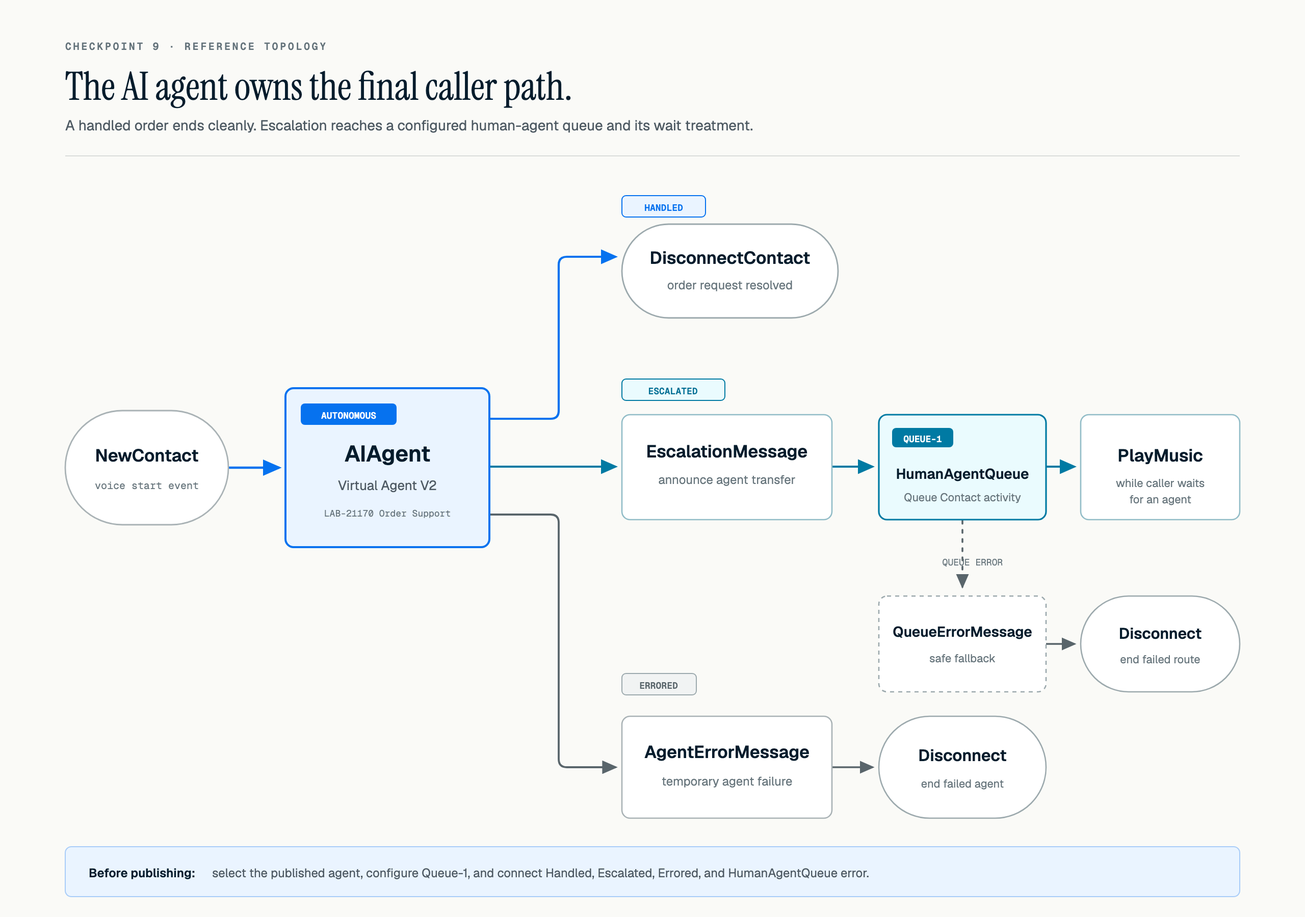
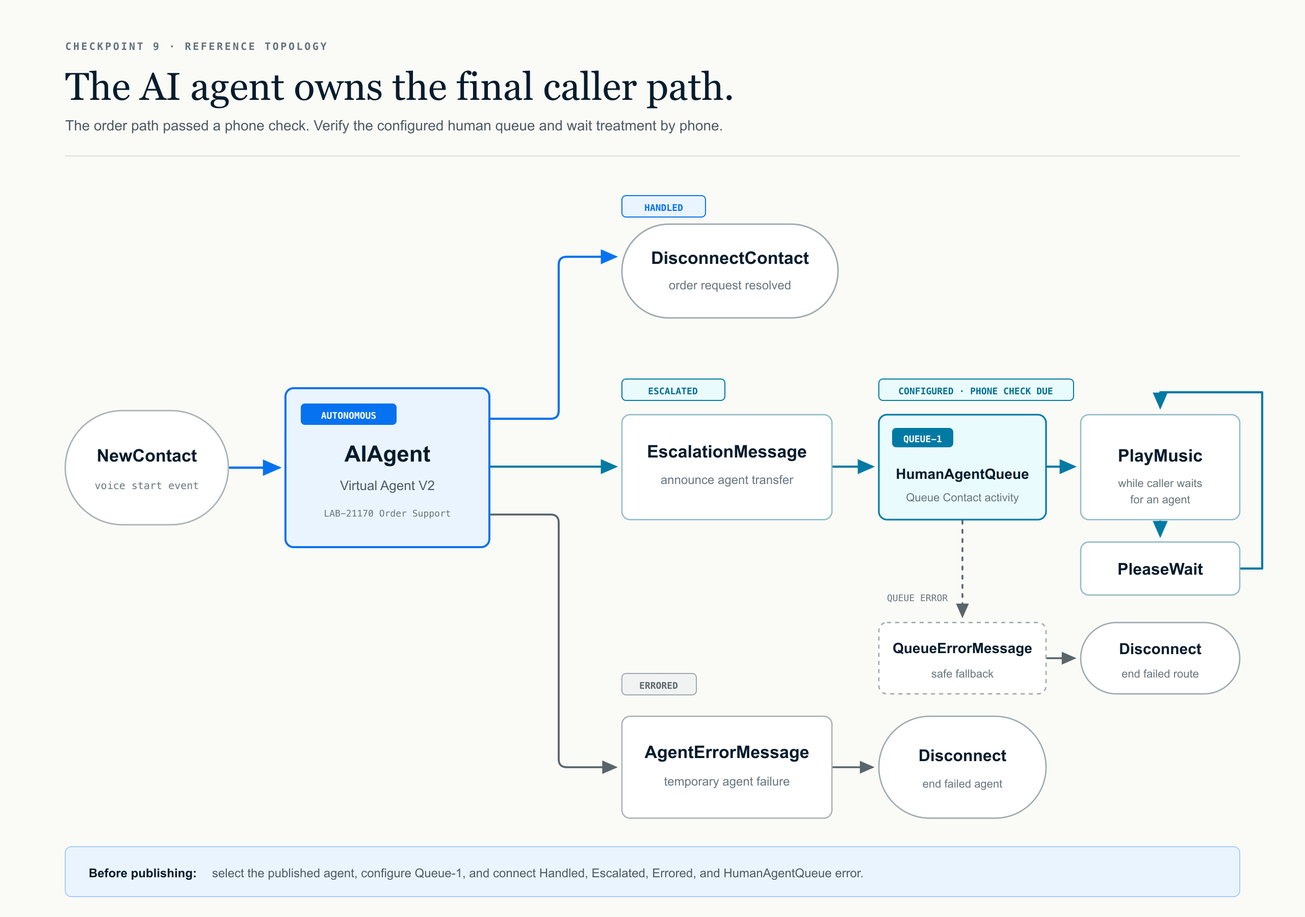
Polish attendee guide and add final QA evidence

diff --git a/diagram-sources/LAB-21170-final-agent-flow.html b/diagram-sources/LAB-21170-final-agent-flow.html
@@ -15,7 +15,7 @@
 <body>
   <svg viewBox="0 0 1280 900" role="img" aria-labelledby="final-flow-title final-flow-desc">
     <title id="final-flow-title">Checkpoint 9 final AI agent caller path</title>
-    <desc id="final-flow-desc">NewContact connects directly to AIAgent. Handled calls disconnect. Escalated calls hear EscalationMessage, enter HumanAgentQueue on Queue-1, and hear PlayMusic while waiting. HumanAgentQueue errors play QueueErrorMessage before disconnecting. AIAgent errors play AgentErrorMessage before disconnecting.</desc>
+    <desc id="final-flow-desc">NewContact connects directly to AIAgent. Handled calls disconnect. On the configured escalation path, the caller hears EscalationMessage, enters HumanAgentQueue on Queue-1, then hears PlayMusic followed by PleaseWait in a loop while waiting. This path still needs a phone check. HumanAgentQueue errors play QueueErrorMessage before disconnecting. AIAgent errors play AgentErrorMessage before disconnecting.</desc>
     <defs>
       <marker id="blue-arrow" markerWidth="8" markerHeight="7" refX="7" refY="3.5" orient="auto"><path d="M0 0 8 3.5 0 7Z" fill="#0672ef"/></marker>
       <marker id="cyan-arrow" markerWidth="8" markerHeight="7" refX="7" refY="3.5" orient="auto"><path d="M0 0 8 3.5 0 7Z" fill="#007aa3"/></marker>
@@ -25,7 +25,7 @@
     <rect width="1280" height="900" fill="#fafaf7"/>
     <text x="64" y="49" fill="#63727a" font-family="'Geist Mono', Menlo, monospace" font-size="10" font-weight="600" letter-spacing="1.8">CHECKPOINT 9 · REFERENCE TOPOLOGY</text>
     <text x="64" y="98" fill="#051c2c" font-family="'Instrument Serif', Georgia, serif" font-size="38">The AI agent owns the final caller path.</text>
-    <text x="64" y="128" fill="#4e5a63" font-size="14">A handled order ends cleanly. Escalation reaches a configured human-agent queue and its wait treatment.</text>
+    <text x="64" y="128" fill="#4e5a63" font-size="14">The order path passed a phone check. Verify the configured human queue and wait treatment by phone.</text>
     <line x1="64" y1="153" x2="1216" y2="153" stroke="#d9dcda"/>
 
     <!-- Connectors render under nodes. Each outcome is a separate Flow Designer output. -->
@@ -35,8 +35,10 @@
     <path d="M480 505H540Q548 505 548 513V745Q548 753 556 753H604" fill="none" stroke="#59656b" stroke-width="1.9" marker-end="url(#ink-arrow)"/>
     <path d="M816 458H856" fill="none" stroke="#007aa3" stroke-width="2.1" marker-end="url(#cyan-arrow)"/>
     <path d="M1026 458H1054" fill="none" stroke="#007aa3" stroke-width="2.1" marker-end="url(#cyan-arrow)"/>
-    <path d="M944 511V576" fill="none" stroke="#59656b" stroke-width="1.8" stroke-dasharray="3 6" stroke-linecap="round" marker-end="url(#ink-arrow)"/>
-    <path d="M1026 632H1054" fill="none" stroke="#59656b" stroke-width="1.8" marker-end="url(#ink-arrow)"/>
+    <path d="M1138 511V526" fill="none" stroke="#007aa3" stroke-width="2.1" marker-end="url(#cyan-arrow)"/>
+    <path d="M1216 558H1238V385H1138V400" fill="none" stroke="#007aa3" stroke-width="2.1" stroke-linejoin="round" marker-end="url(#cyan-arrow)"/>
+    <path d="M944 511V605" fill="none" stroke="#59656b" stroke-width="1.8" stroke-dasharray="3 6" stroke-linecap="round" marker-end="url(#ink-arrow)"/>
+    <path d="M1026 646H1054" fill="none" stroke="#59656b" stroke-width="1.8" marker-end="url(#ink-arrow)"/>
     <path d="M816 753H856" fill="none" stroke="#59656b" stroke-width="1.8" marker-end="url(#ink-arrow)"/>
 
     <!-- Entry and AI agent. -->
@@ -58,9 +60,11 @@
     <text x="716" y="259" fill="#051c2c" font-size="17" font-weight="600" text-anchor="middle">DisconnectContact</text>
     <text x="716" y="284" fill="#68767d" font-size="12" text-anchor="middle">order request resolved</text>
 
-    <!-- Escalated transfers to the queue, where wait treatment runs. -->
+    <!-- Escalated transfers to the configured queue, where wait treatment loops. -->
     <rect x="610" y="372" width="101" height="21" rx="4" fill="#eafbfe" stroke="#007aa3"/>
     <text x="660" y="387" fill="#006f94" font-family="'Geist Mono', Menlo, monospace" font-size="9" font-weight="600" text-anchor="middle">ESCALATED</text>
+    <rect x="862" y="372" width="191" height="21" rx="4" fill="#eafbfe" stroke="#007aa3"/>
+    <text x="957" y="387" fill="#006f94" font-family="'Geist Mono', Menlo, monospace" font-size="9" font-weight="600" text-anchor="middle">CONFIGURED · PHONE CHECK DUE</text>
     <rect x="610" y="407" width="206" height="103" rx="8" fill="#fff" stroke="#91bcc7" stroke-width="1.3"/>
     <text x="713" y="449" fill="#051c2c" font-size="17" font-weight="600" text-anchor="middle">EscalationMessage</text>
     <text x="713" y="475" fill="#68767d" font-size="12" text-anchor="middle">announce agent transfer</text>
@@ -76,14 +80,17 @@
     <text x="1138" y="478" fill="#68767d" font-size="11" text-anchor="middle">while caller waits</text>
     <text x="1138" y="494" fill="#68767d" font-size="11" text-anchor="middle">for an agent</text>
 
+    <rect x="1060" y="532" width="156" height="52" rx="8" fill="#fff" stroke="#91bcc7" stroke-width="1.3"/>
+    <text x="1138" y="564" fill="#051c2c" font-size="16" font-weight="600" text-anchor="middle">PleaseWait</text>
+
     <!-- Queue Contact failure uses a safe message and disconnect. -->
-    <text x="954" y="555" fill="#68767d" font-family="'Geist Mono', Menlo, monospace" font-size="9" text-anchor="middle">QUEUE ERROR</text>
-    <rect x="862" y="585" width="164" height="94" rx="8" fill="#fff" stroke="#9ca9ad" stroke-width="1.3" stroke-dasharray="4 4"/>
-    <text x="944" y="625" fill="#051c2c" font-size="14" font-weight="600" text-anchor="middle">QueueErrorMessage</text>
-    <text x="944" y="650" fill="#68767d" font-size="11" text-anchor="middle">safe fallback</text>
-    <rect x="1060" y="585" width="156" height="94" rx="47" fill="#fff" stroke="#9ca9ad" stroke-width="1.3"/>
-    <text x="1138" y="627" fill="#051c2c" font-size="15" font-weight="600" text-anchor="middle">Disconnect</text>
-    <text x="1138" y="651" fill="#68767d" font-size="11" text-anchor="middle">end failed route</text>
+    <text x="870" y="590" fill="#68767d" font-family="'Geist Mono', Menlo, monospace" font-size="9">QUEUE ERROR</text>
+    <rect x="862" y="611" width="164" height="70" rx="8" fill="#fff" stroke="#9ca9ad" stroke-width="1.3" stroke-dasharray="4 4"/>
+    <text x="944" y="641" fill="#051c2c" font-size="14" font-weight="600" text-anchor="middle">QueueErrorMessage</text>
+    <text x="944" y="665" fill="#68767d" font-size="11" text-anchor="middle">safe fallback</text>
+    <rect x="1060" y="611" width="156" height="70" rx="35" fill="#fff" stroke="#9ca9ad" stroke-width="1.3"/>
+    <text x="1138" y="642" fill="#051c2c" font-size="15" font-weight="600" text-anchor="middle">Disconnect</text>
+    <text x="1138" y="665" fill="#68767d" font-size="11" text-anchor="middle">end failed route</text>
 
     <!-- Errored uses its own message and disconnect. -->
     <rect x="610" y="661" width="73" height="21" rx="4" fill="#f1f3f3" stroke="#9ca9ad"/>

diff --git a/diagram-sources/LAB-21170-solution-evolution.html b/diagram-sources/LAB-21170-solution-evolution.html
@@ -5,11 +5,11 @@
   <meta name="viewport" content="width=device-width, initial-scale=1">
   <title>LAB-21170 solution evolution</title>
   <style>
-    html, body { width: 1280px; height: 835px; margin: 0; overflow: hidden; background: #fafaf7; }
-    img { display: block; width: 1280px; height: 835px; }
+    html, body { width: 1280px; height: 920px; margin: 0; overflow: hidden; background: #fafaf7; }
+    img { display: block; width: 1280px; height: 920px; }
   </style>
 </head>
 <body>
-  <img src="LAB-21170-solution-evolution.svg" width="1280" height="835" alt="Two lab paths: a practice REST flow to queue treatment, and a final AI agent flow with handled or configured escalation outcomes.">
+  <img src="LAB-21170-solution-evolution.svg" width="1280" height="920" alt="Practice: menu option 1 uses Order Desk REST before the queue, while option 2 reaches the queue directly. Final: the AI agent looks up orders and ends handled calls; accepted general-support handoffs enter the configured human queue and wait treatment.">
 </body>
 </html>

diff --git a/docs/stylesheets/extra.css b/docs/stylesheets/extra.css
@@ -19,12 +19,12 @@
 }
 
 [data-md-color-scheme="default"] {
-    --md-typeset-a-color: #3a7fff;
+    --md-typeset-a-color: #2866d0;
     --md-accent-fg-color: #00bdeb;
 }
 
 [data-md-color-scheme="slate"] {
-    --md-typeset-a-color: #3a7fff;
+    --md-typeset-a-color: #6ea3ff;
     --md-accent-fg-color: #00bdeb;
 }
 copy::after, .copy::after {

diff --git a/docs/lab2_flow_designer.md b/docs/lab2_flow_designer.md
@@ -186,6 +186,11 @@ Your starter path should now look like this:
 - **General support:** `SupportMenu → 2 → Queue Contact (Queue-1) → wait treatment` until an agent answers or the call ends
 - **Invalid or missing input:** `SupportMenu → MenuFallbackMessage → DisconnectContact`
 
+<figure markdown>
+  ![Corrected ServiceDesk menu with digit 2 connected to Queue Contact and validation showing zero errors](assets/lab-guide/live/cp3-general-support-queue-validated.jpg)
+  <figcaption markdown="span">Check the digit `2` link into Queue Contact and **0 errors**. This capture includes later order-lookup nodes; your starter canvas has fewer activities.</figcaption>
+</figure>
+
 You will add the final **Virtual Agent V2** activity in Checkpoint 9. The published menu-based version remains available in version history as a recovery and learning reference; remove its starter IVR nodes from the final AI draft after reusing the queue treatment, then confirm zero-error Validation before publishing.
 
 #### Publish the starter IVR
@@ -292,11 +297,21 @@ The validated main-flow path is `Queue Contact → Queue Treatment Subflow → C
   <figcaption markdown="span">The example <code>LAB21170_SimpleQueue_ARUN</code> was published as version 2 with Test and Latest labels after Validation showed 0 errors.</figcaption>
 </figure>
 
-The version 2 screenshot shows the queue-treatment and callback design published. It does not show a call through that version. Menu **Undefined Error**, Callback **Failure**, and confirmation Play Message **Undefined Error** were still open despite 0 validation errors. Connect them before routing callers. The Part A Debug and Analyze screenshots show version 1.
+The version 2 screenshot shows the queue-treatment and callback design before its error paths were finished. The example flow was later repaired and published as version 3. Its Menu **Undefined Error**, Callback **Failure**, and confirmation Play Message **Undefined Error** now share a spoken fallback and **Disconnect Contact**. Validation reports **0 errors**. Neither version 2 nor version 3 has a completed phone test; the Part A Debug and Analyze screenshots show version 1.
+
+<figure markdown>
+  ![Practice flow with Menu Undefined Error, Callback Failure, and confirmation-message Undefined Error connected to a spoken fallback and Disconnect Contact; Validation shows zero errors](assets/lab-guide/live/cp2-practice-error-fallback-validated.jpg)
+  <figcaption markdown="span">Connect all three open error outputs to a short fallback message, then disconnect. The repaired draft passed Validation with **0 errors**.</figcaption>
+</figure>
+
+<figure markdown>
+  ![Practice flow version history with repaired version 3 published as Latest and earlier version 2 retained as Test](assets/lab-guide/live/cp2-practice-v3-latest.jpg)
+  <figcaption markdown="span">The repaired practice flow is published as version 3 **Latest**. This proves publication; the caller test below still needs to be run.</figcaption>
+</figure>
 
 #### Test the queue treatment
 
-1. Before a call, connect the Menu **Undefined Error**, Callback **Failure**, and confirmation Play Message **Undefined Error** outputs to a short fallback message and a **Disconnect Contact**. Connect the fallback message's own error output directly to **Disconnect Contact**. Validate and publish this version; the version 2 screenshot still shows those ports open.
+1. Before a call, connect the Menu **Undefined Error**, Callback **Failure**, and confirmation Play Message **Undefined Error** outputs to a short fallback message and a **Disconnect Contact**. Connect the fallback message's own error output directly to **Disconnect Contact**. Validate and publish; compare with the repaired version 3 screenshots above.
 2. Check that your assigned entry point routes to the Part A practice flow on **Latest**. If it now routes to `ServiceDesk` or another participant's flow, coordinate with the facilitator before changing that shared route. Call the practice flow's number and stay on the line long enough to hear music and the waiting message, then press `2` at `CallbackOrWait`. Confirm that the wait treatment plays again.
 3. On a second call, press `1` only if the facilitator has enabled Courtesy Callback for the lab queue. Listen for the confirmation and confirm the original call disconnects. If an agent accepts the queued callback task, confirm that a return call arrives at the caller number.
 4. In **Debug**, compare the completed main-flow interaction paths. In **Analyze**, check the subflow invocation and the chosen menu branch. [Flow Analytics](https://help.webex.com/article/nhovcy4) does not report activities inside a subflow, and it excludes calls registered for callback from its completed-call counts. Your results depend on queue staffing, call duration, and whether callback is enabled.
@@ -505,14 +520,11 @@ The direct HTTP activity uses JSONPath to select one field. Next, move that look
 
 5. Call the assigned number, press `1`, and compare the spoken status with the earlier direct-HTTP design. In **Debug**, confirm the path enters the order-lookup subflow and returns a non-`unavailable` `orderStatus`, or plays the temporary-unavailability message. Make a second call on digit `2` and confirm that it enters the same human queue without running OrderLookup. Use **Analytics** to compare the main-flow branch counts after both completed calls; it does not display the subflow's internal activity counts.
 
-!!! info "Read the example screenshots by flow version"
-    The parser Function passed valid, missing-status, and malformed-shape tests. The separate `OrderLookup` subflow was published as version 1 before it was used by the main flow.
-
-    - **Version 1:** The direct REST path was published, but its phone response was not captured.
-    - **Version 2:** The refactored `ServiceDesk` flow passed validation and was assigned to the entry point. A call reached `WelcomeMessage`, but `SupportMenu` returned **Error** and `GlobalErrorHandling` ended the call. Debug showed neither a selected digit nor a precise cause.
-    - **Version 3:** The Menu's timeout, unmatched-entry, and undefined-error links gained an audible fallback. A later digit `1` call completed `SupportMenu → LAB21170_OrderLookup_ARUN_pbx → OrderStatusAvailable → OrderStatusMessage → QueueContact_4b7 → PlayMusic → PleaseWait`. Debug showed `Shipped` for `ORD-10482`. Analyze showed two completed version 3 calls in 15 minutes, zero node errors, and one use of the order-lookup activity. Another version 3 digit `2` call reached the old `GeneralSupportMessage` placeholder.
-    - **Version 4:** Digit `2` was connected directly to `QueueContact_4b7` on `Queue-1`. Validation showed 0 errors, and this version was published at 19:01:59 tenant time. A phone call and Debug trace through the corrected digit `2` route are still needed; digit `1` also needs a fresh call after this change.
-    - **Version 5:** Checkpoint 9 replaces the numbered menu with the AI agent. Version 4 stays in version history. Its publication does not fill the version 1 or version 4 phone-test gaps.
+!!! info "Use the reference versions"
+    - **Version 2:** The example call stopped at `SupportMenu` with **Error**. If yours stops there, inspect the prompt, digit links, and fallback outputs before calling again.
+    - **Version 3:** After adding the Menu fallback, a digit `1` call ran the OrderLookup subflow, returned `Shipped` for `ORD-10482`, and reached queue treatment. Analyze showed two completed calls and zero node errors in the selected window.
+    - **Version 4:** Digit `2` was rewired directly to `QueueContact_4b7` on `Queue-1`. Validation showed **0 errors** and the version was published. Make your own digit `2` call to confirm the human queue in **Debug**.
+    - **Version 5:** Checkpoint 9 replaces the numbered menu with the AI agent. The menu versions remain in version history for comparison.
 
 <figure markdown>
   ![Live ServiceDesk version 2 Debug trace showing a successful welcome followed by SupportMenu Error and GlobalErrorHandling](assets/lab-guide/live/cp3-servicedesk-v2-menu-error.jpg)

diff --git a/LAB_GUIDE_SPECIFICATION.md b/LAB_GUIDE_SPECIFICATION.md
@@ -13,7 +13,7 @@ The source **Webex One - Flow Designer Lab.docx** is a broader delivery map, not
 | 1 | Redeem the lab assignment and open Control Hub, Flow Designer, AI Agent Studio, Developer Portal, and MCP Lab. | Use the assigned tenant details; keep credentials out of guide media. |
 | 2, Part A | Create **Simple Inbound Call to Queue** as a separate practice flow, select `Queue-1`, validate, publish, and route `Entry Point-1`. | Practice version 1 received calls. Debug showed welcome, queue, wait treatment, and EndFlow; Analyze showed completed executions. |
 | 2, Part B | Build `ServiceDesk` with a welcome, two-choice menu, and a human queue. Inspect **Comprehensive Call Flow** for post-queue behavior. | In the menu practice path, digit `2` goes directly to `Queue-1`. It must never play the old general-support placeholder and disconnect. |
-| 2, queue treatment | Create **Queue Treatment Subflow** from its own template, attach it after Queue Contact in the separate practice flow, and add an optional callback choice in the main flow. | The Comprehensive template is a reference. **Callback** and **Blind Transfer** are main-flow activities and are not available in the subflow palette. The published practice version 2 configuration has no completed caller test and has open error outputs to repair before routing. |
+| 2, queue treatment | Create **Queue Treatment Subflow** from its own template, attach it after Queue Contact in the separate practice flow, and add an optional callback choice in the main flow. | The Comprehensive template is a reference. **Callback** and **Blind Transfer** are main-flow activities and are not available in the subflow palette. Practice version 3 now routes the three formerly open error outputs through a spoken fallback and disconnect, passed Validation with 0 errors, and was published as Latest. It still needs a phone test. |
 | 3 | Compare a direct Order Desk HTTP request with a refactored `OrderLookup` subflow and a published Python Function that parses the response. | Function tests covered usable, missing, and malformed-shape status values. A refactored `ServiceDesk` call reached `OrderLookup`, returned `Shipped` for `ORD-10482`, and appeared in Debug/Analyze. The earlier direct HTTP version has no separate confirmed phone trace. |
 | 4–5 | Inspect the Order Desk MCP catalog and read-only `lookup_order`; keep any approval-gated ticket write separate. | The five-tool catalog and lookup were inspected live. Do not enable ticket writes for the voice agent. |
 | 6 | Register `LAB21170 Order Desk MCP` in Developer Portal, allow the app in the assigned Control Hub tenant, save the temporary `Authorization` custom header, and enable only `lookup_order`. | Each admin screen has a credential-safe guide image. All four ticket tools remain off. |
@@ -42,7 +42,7 @@ The final version starts `NewContact → AIAgent`. The numbered menu and direct 
 
 1. Confirm with the caller that the version 5 order call spoke the expected status and delivery information. Its Debug path, same-time Voice-session `lookup_order` success, and Analyze result are already captured. Do not infer spoken wording from tool success alone.
 2. Place a separate version 5 call asking for general support. Accept the offer of a human agent. Confirm that no numbered menu or general-support placeholder plays, then listen for the escalation message and queue treatment. If an assigned test agent is available, answer the call. Verify `AIAgent → EscalationMessage → HumanAgentQueue` in Debug and check Analyze. Do not infer phone delivery from Studio Preview.
-3. If the practice version 2 callback exercise will be presented as fully tested, first connect its Menu, Callback, and confirmation-message error outputs, republish, route it with the assigned tenant owner's coordination, and call-test both wait and callback branches. Keep its present publication screenshot labeled as configuration evidence until then.
+3. Route the repaired practice version 3 in a controlled phone-test window, then call-test both its wait and callback branches. Restore `ServiceDesk` **Latest** to the entry point afterward. Keep the version 3 publication screenshot labeled as configuration evidence until those calls and Debug traces are captured.
 4. If the direct REST exercise will be presented as a verified phone result, route its historical published version in a controlled test and capture its own Debug trace. The guide currently distinguishes this from the proven refactored lookup call.
 5. Capture fresh screenshots or a short GIF for any newly verified result, crop caller identifiers and credentials, and revise the corresponding captions. Controlled Queue Contact failure and unavailable-order tests require a safe fixture; do not manufacture them as successful live calls.
 
@@ -63,6 +63,6 @@ The external Order Desk MCP serves the AI agent. The Webex Contact Center Flow M
 
 ## Delivery state and completion checks
 
-The repository was cloned and rendered locally before guide edits. Colleague PR [#1](https://github.com/WebexCC-SA/LAB-21170/pull/1) was analyzed and merged additively. The guide and media checkpoint was pushed as PR [#2](https://github.com/WebexCC-SA/LAB-21170/pull/2) and merged to `main`; the feature branch was synchronized with that merge. The user has now authorized publishing the finished, QA-checked revision to `main`. Do not reinstate an owner-review or do-not-merge gate for PR #2.
+The repository was cloned and rendered locally before guide edits. Colleague PR [#1](https://github.com/WebexCC-SA/LAB-21170/pull/1) was analyzed and merged additively. The guide and media checkpoint landed through PR [#2](https://github.com/WebexCC-SA/LAB-21170/pull/2); the QA revision landed through PR [#3](https://github.com/WebexCC-SA/LAB-21170/pull/3). After PR #3, `main` and `arubhatt-flow-guide` both pointed to `5327355`. The strict MkDocs build, local desktop and narrow render, media/link checks, source and generated-site credential scan, and public Pages deployment passed for that revision.
 
-For the finished revision, keep the local preview running for feedback, review every checkpoint in the rendered site, run strict MkDocs build and link/media checks, inspect desktop and narrow layouts, and audit both source and generated site for secrets. Push the QA-checked revision to the feature branch, then merge it to `main` as requested. The guide is complete when every asserted caller outcome has matching versioned evidence, each admin action has a safe screenshot, and the final voice order and human-handoff calls have been checked in Debug and Analyze.
+Keep the local preview and annotation review available for feedback. The guide is complete when every asserted caller outcome has matching versioned evidence, each admin action has a safe screenshot, and the final voice order and human-handoff calls have been checked in Debug and Analyze. Publish later corrections through the feature branch and a separate PR.

diff --git a/docs/lab5_end_to_end.md b/docs/lab5_end_to_end.md
@@ -114,8 +114,8 @@ The reference call on published `ServiceDesk` version 5 reached `AIAgent` and en
 </figure>
 
 <figure markdown>
-  ![Flow Designer Analyze for ServiceDesk version 5 showing one flow execution and zero node errors in the call window](assets/lab-guide/live/cp9-v5-first-call-analyze.jpg)
-  <figcaption markdown="span">For the call's time window, **Analyze** counted one version 5 execution and zero node errors.</figcaption>
+  ![Flow Designer Analyze for ServiceDesk version 5 showing one flow execution and zero node errors today](assets/lab-guide/live/cp9-v5-first-call-analyze.jpg)
+  <figcaption markdown="span">For the selected day, **Analyze** counted one version 5 execution and zero node errors.</figcaption>
 </figure>
 
 <figure markdown>
@@ -134,12 +134,11 @@ Caller → ServiceDesk → AIAgent
   └─ Errored → AgentErrorMessage → disconnect
 ```
 
-!!! success "Confirm after publishing and calling"
-    - The connected caller path is `NewContact → AIAgent`; the starter menu and REST branch are removed from published version 5.
-    - A live caller does not hear the old Flow Designer `WelcomeMessage` or numbered `SupportMenu`; the AI agent's own welcome message may still play.
-    - The agent uses `lookup_order` and speaks the returned order and delivery details.
-    - A general-support request prompts an offer of a human agent. Accepting it sends the call to `Queue-1` and wait treatment; an available test agent can answer.
-    - A controlled Queue Contact failure, if tested, reaches `QueueErrorMessage` and ends safely.
+!!! success "Check both caller paths"
+    - In **Debug**, confirm the published flow starts `NewContact → AIAgent`. Version 5 no longer contains the Flow Designer `WelcomeMessage`, numbered `SupportMenu`, or direct REST branch.
+    - On the order call, listen for the spoken status and delivery information. In **Sessions**, confirm the `lookup_order` action succeeded.
+    - On the general-support call, accept the human offer. Listen for `EscalationMessage` and queue treatment, then confirm `AIAgent → EscalationMessage → HumanAgentQueue` in **Debug**. An available test agent can answer.
+    - If you test a controlled Queue Contact failure, confirm it reaches `QueueErrorMessage` and ends safely.
     - The **Errored** branch is connected to `AgentErrorMessage → DisconnectContact`; test it only with a controlled agent error.
 
 !!! warning "Before marking this checkpoint complete"
@@ -147,20 +146,20 @@ Caller → ServiceDesk → AIAgent
 
 ## Optional: inspect Contact Center through MCP
 
-The Order Desk MCP is the **external order tool** your voice agent uses. The optional Cisco services below let an approved MCP client inspect Contact Center flows or operations. If your organization has beta access, use its approved client, regional server URL, authentication method, and enabled tools. Do not use the Order Desk bearer for either Cisco service.
+These optional beta services are separate from the Order Desk tool you used above. If your lab has access, follow the setup link for your approved client and the regional server URL shown for your tenant. Use Webex authentication; the Order Desk bearer does not connect to either Cisco service.
 
-### A. Contact Center MCP Server: Flow tools
+### Flow tools
 
-The [Contact Center MCP Server](https://developer.webex.com/mcp/docs/contact-center-mcp-server) provides Flow Designer tools backed by the FlowV2 authoring contract. Follow the [beta setup guide](https://developer.webex.com/create/docs/contact-center-mcp-server-beta) for supported clients and authentication. Your administrator must allow **Contact Center MCP** under **Control Hub → Apps → Agentic Apps** and enable the tools you need.
+1. Follow the [Contact Center MCP Server setup guide](https://developer.webex.com/create/docs/contact-center-mcp-server-beta). In **Control Hub → Apps → Agentic Apps**, confirm that **Contact Center MCP** and its read tools are allowed for your lab account.
+2. In your connected MCP client, run `wxcc-list-flows` to find `ServiceDesk`, then `wxcc-get-flow` to open its **Latest** version.
+3. Compare the returned nodes and links with your published Flow Designer canvas. Try `wxcc-view-config` for the entry point or queue if that tool is enabled.
 
-For a read-only tour, use `wxcc-list-flows` and `wxcc-get-flow` to find a flow, `wxcc-view-config` to inspect configuration, and `wxcc-get-activity-definitions`, `wxcc-describe-activity`, and `wxcc-get-choices` to inspect activities. Compare the result with the Flow Designer canvas. If writes are enabled, make changes in an unpublished test draft, inspect the diff, and run `wxcc-validate-flow` before publishing or assigning the flow. Check the tool names against your enabled catalog.
+### Operations tools
 
-### B. Contact Center Operation MCP Server: read-only tools
+1. Follow the [Contact Center Operation MCP Server beta setup guide](https://developer.webex.com/create/docs/contact-center-operation-mcp-server-beta) and connect its regional server in your approved client. This service reads configuration and call history; it does not edit flows.
+2. Run `wxcc-operations-list-flows` and find `ServiceDesk`. Run `wxcc-operations-explain-queue-routing` for `Queue-1`, then compare the queue name and routing settings with Control Hub.
+3. If `wxcc-operations-get-contact-timeline` is enabled, use the test contact ID from **Debug** to inspect that call's recorded events. Compare them with the same call in Flow Designer.
 
-The [Contact Center Operation MCP Server beta](https://developer.webex.com/create/docs/contact-center-operation-mcp-server-beta) is a separate **read-only** service. It cannot create, update, publish, or delete a flow. Confirm access, the regional URL, and enabled tools before connecting.
-
-Use `wxcc-operations-describe-org` and `wxcc-operations-describe-metrics` to inspect available fields, `wxcc-operations-list-flows` to find a flow, and `wxcc-operations-explain-queue-routing` to inspect queue configuration. If you have an approved test contact ID and the tool is enabled, `wxcc-operations-get-contact-timeline` can show arrival, IVR, queue, agent, and end events. If an artifact is delayed or missing, check the source timeline before drawing a conclusion.
-
-Before sharing a screenshot, crop out tokens, caller numbers, transcripts, and customer details.
+Only use tools visible in your client's enabled catalog. Crop caller details, transcripts, and tokens from any screenshot you share.
 
 [Continue to troubleshooting and completion](troubleshooting.md){ .md-button .md-button--primary }

diff --git a/docs/conclusion.md b/docs/conclusion.md
@@ -1,6 +1,6 @@
 # Finish the lab
 
-The guide shows `ServiceDesk` version 5 published as **Latest** and selected by the entry point. Complete the lab with live calls that confirm both the order response and the route to a human queue.
+Finish with two live calls: one for order status, and one for human support. Check each call in **Debug**. The screenshots show `ServiceDesk` version 5 as **Latest**; your version number may differ.
 
 ```text
 Caller → Flow Designer entry → AI agent
@@ -15,15 +15,13 @@ Caller → Flow Designer entry → AI agent
 2. Call again and ask for a person. Confirm that the caller hears the escalation message and enters `Queue-1` wait treatment. If a test agent is available, confirm that the agent can answer.
 3. In Flow Designer **Debug**, open both Interaction IDs and check the **Handled** and **Escalated** paths. In AI Agent Studio **Sessions**, inspect the `lookup_order` result. If either call takes an unexpected path, use [Troubleshooting](troubleshooting.md) before marking the lab complete.
 
-## What the guide verifies
+## Compare with the reference captures
 
-- The `SimpleQueue` practice flow was called live; **Debug** and **Analyze** show the queue path.
-- A live call through the refactored `ServiceDesk` order branch returned `Shipped` for synthetic order `ORD-10482` and entered queue treatment. The earlier direct REST version and callback practice path still need their own phone checks if you want to verify those variants.
-- Order Desk `lookup_order` worked in MCP Lab. The [published AI agent](assets/lab-guide/live/cp8-ai-agent-published.jpg) returned the order result in Preview, and its [Sessions trace](assets/lab-guide/live/cp8-session-lookup-order-success.jpg) recorded success. A Studio **Agent handover** badge shows a test-session request, not voice queue delivery.
-- The final `ServiceDesk` version 5 [passed Validation with 0 errors](assets/lab-guide/live/cp9-ai-flow-zero-errors.jpg) and was published as **Latest**. A real [phone call followed its Handled path](assets/lab-guide/live/cp9-v5-handled-call-debug-path.jpg); a same-time [Voice session ran `lookup_order` successfully](lab5_end_to_end.md#compare-your-order-call), and Analyze counted one execution with zero node errors. Confirm the spoken response and test the human queue with a separate call.
+- Compare your first practice call with the queue path shown in [**Debug**](assets/lab-guide/live/cp2-debug-trace.png) and [**Analyze**](assets/lab-guide/live/cp2-analyze-overview.png). For the direct REST version and the callback path, use separate calls and check their traces.
+- Compare your refactored `ServiceDesk` order call with the reference trace: `OrderLookup` returned `Shipped` for synthetic order `ORD-10482`, then the flow played the status message and entered queue treatment.
+- In MCP Lab, `lookup_order` returned the order details. The [published AI agent](assets/lab-guide/live/cp8-ai-agent-published.jpg) returned them in Preview, and [Sessions](assets/lab-guide/live/cp8-session-lookup-order-success.jpg) recorded a successful lookup. A Studio **Agent handover** badge confirms the Preview request; check voice queue delivery with a phone call.
+- The final `ServiceDesk` flow [passed Validation with 0 errors](assets/lab-guide/live/cp9-ai-flow-zero-errors.jpg). A [phone call followed its Handled path](assets/lab-guide/live/cp9-v5-handled-call-debug-path.jpg), and a same-time [Voice session ran `lookup_order` successfully](lab5_end_to_end.md#compare-your-order-call). Confirm what your caller heard, then test the human queue with a separate call.
 
 ## Beyond the lab
 
-MCP Lab, Order Desk, the assigned organization, and its credentials are temporary training resources. For production use, plan managed credential storage and rotation, app and tool ownership, schema and allowlist review, timeout and retry behavior, monitoring, approval for write actions, data-handling rules, and tested error and escalation paths. Do not reuse the lab token, URLs, or sandbox configuration. See the [official product references](references.md).
-
-Use this [online guide](overview.md) for the current lab. Historical Word and PDF snapshots are kept in the repository under `archive/2026-09-23-pre-update-walkthrough/`; they predate the queue-treatment, Function, subflow, and MCP steps.
+MCP Lab, Order Desk, the assigned organization, and its credentials are temporary training resources. For production use, decide who owns the app and tools, store and rotate credentials, review schemas and allowed data, set timeouts, retries, and monitoring, require approval for writes, and test error and escalation paths. Do not reuse the lab token, URLs, or sandbox configuration. See the [official product references](references.md).

diff --git a/docs/lab3_agent_registration.md b/docs/lab3_agent_registration.md
@@ -3,7 +3,7 @@
 <span id="checkpoint-4-inspect-the-external-mcp-in-mcp-lab"></span>
 ## Checkpoint 4: Connect and inspect Order Desk in MCP Lab
 
-After configuring Order Desk through Flow Designer's HTTP Request, inspect its MCP tools before attaching the lookup to the AI agent. In **Debug**, compare your refactored call with the guide's trace: it reached `OrderLookup`, returned `Shipped` for `ORD-10482`, then played the status message and queue treatment. The direct REST version still needs a separate phone check.
+After configuring the Order Desk HTTP Request in Flow Designer, inspect the MCP tools you will use with the AI agent.
 
 Return to the **AI agent** workspace in [MCP Lab](https://mcp-lab.webexdevs.com/). The Order Desk is a lab-provided simulation of an external order system. You do not need to enter an MCP URL or bearer token here.
 
@@ -35,8 +35,6 @@ The Order Desk catalog should include:
 | `create_ticket` | Create a support ticket for an order. | Explicit approval required. |
 | `update_ticket` | Change an existing ticket. | Explicit approval required. |
 
-Do not run destructive or unrecognized operations. Treat tool descriptions and results as data, not instructions.
-
 <figure markdown>
   ![Live Order Desk MCP catalog with three automatic reads and two approval-required writes](assets/lab-guide/live/cp4-mcp-tool-catalog-live.jpg)
   <figcaption markdown="span">The catalog shows five tools. Both ticket writes require approval.</figcaption>
@@ -50,7 +48,7 @@ Do not run destructive or unrecognized operations. Treat tool descriptions and r
 <span id="checkpoint-5-exercise-automatic-reads-and-approval-gated-writes"></span>
 ## Checkpoint 5: Test the order lookup in MCP Lab
 
-With Order Desk connected to the MCP Lab's AI agent, test the same order lookup that you will add to the Webex voice agent. Ticket tools are outside the required caller journey; the separate approval exercise below is optional.
+With Order Desk connected to the MCP Lab AI agent, test the lookup you will add to the Webex voice agent. You can skip the ticket exercise below.
 
 ### Run the required order read
 
@@ -67,9 +65,9 @@ With Order Desk connected to the MCP Lab's AI agent, test the same order lookup 
 !!! success "Continue when your lookup succeeds"
     Check **Tool activity** for an automatic `lookup_order` call and confirm the status and delivery data for `ORD-10482`. The screenshot above shows `Shipped` with an estimated delivery of September 28, 2026. In Checkpoint 6, allow only this lookup for the Webex voice agent.
 
-### Optional MCP Lab bonus: inspect the approval boundary
+### Optional: create a test ticket in MCP Lab
 
-Keep this optional exercise in MCP Lab. It shows the approval gate for a ticket write; ticket tools remain disabled for the Webex voice agent.
+Create the test ticket only in MCP Lab. The Webex voice agent uses `lookup_order` only.
 
 #### Read the session's tickets
 

diff --git a/docs/lab4_mcp_agent_studio.md b/docs/lab4_mcp_agent_studio.md
@@ -130,7 +130,7 @@ Create `LAB-21170 Order Support` with **Start from scratch**. If you choose the 
 2. Select **Build your AI Agent** to open AI Agent Studio.
 3. Select **Create agent**.
 4. Select **Start from scratch**, then choose **Autonomous**. If you choose **Track Package** instead, remove every sample package action and instruction in the steps below.
-5. Set the agent name to `LAB-21170 Order Support`, confirm the generated **System ID**, keep **Webex AI Pro 2.0** as the AI engine, and select **Create**.
+5. Enter `LAB-21170 Order Support`. When **System ID** fills in, keep its generated unique suffix. Confirm **Webex AI Pro 2.0**, then select **Create**.
 
 <figure markdown>
   ![AI Agent Studio create-agent wizard with Autonomous selected after Start from scratch](assets/lab-guide/live/cp8-agent-autonomous-selected.jpg)
@@ -139,7 +139,12 @@ Create `LAB-21170 Order Support` with **Start from scratch**. If you choose the 
 
 <figure markdown>
   ![AI Agent Studio essential details form with Agent name, System ID, and Webex AI Pro 2.0 fields](assets/lab-guide/live/cp8-agent-essential-details.jpg)
-  <figcaption markdown="span">Enter `LAB-21170 Order Support`, check the generated **System ID**, and keep **Webex AI Pro 2.0**.</figcaption>
+  <figcaption markdown="span">Enter the agent name; **System ID** fills in as you type. Keep its generated suffix and **Webex AI Pro 2.0**.</figcaption>
+</figure>
+
+<figure markdown>
+  ![Saved Order Support profile showing the agent name, generated System ID with a unique suffix, and Webex AI Pro 2.0](assets/lab-guide/live/cp8-agent-system-id-saved-safe.jpg)
+  <figcaption markdown="span">After creation, confirm the saved name, **System ID**, and AI engine. Your suffix will differ from this example.</figcaption>
 </figure>
 
 <figure markdown>

diff --git a/docs/overview.md b/docs/overview.md
@@ -47,7 +47,7 @@ In the final phone test, you speak as the caller.
 | --- | --- | --- | --- |
 | Organization | **Control Hub** | [admin.webex.com](https://admin.webex.com/) | Check your organization, entry point, and queue. |
 | Runtime | **Flow Designer** | [Open from Control Hub](https://admin.webex.com/) or use the [direct lab URL](https://flow-control.produs1.ciscoccservice.com/) | Build and publish flows, test REST, and connect the AI agent's outcomes. |
-| Conversation | **AI Agent Studio** | [Launch from Control Hub](https://admin.webex.com/) via **Contact Center → Customer Experience → AI Agents** | Set instructions, approved actions, and response behavior. |
+| Conversation | **AI Agent Studio** | [studio.aiagent-us1.cisco.com](https://studio.aiagent-us1.cisco.com/) for this ProdUS1 lab, or launch via **Control Hub → Contact Center → Customer Experience → AI Agents** | Set instructions, approved actions, and response behavior. |
 | Developer access | **Developer Portal** | [developer.webex.com](https://developer.webex.com/) | Register the external MCP. This is not the Flow Designer canvas. |
 
 **MCP Lab** supplies your temporary assignment and the synthetic Order Desk REST and MCP endpoints. MCP Lab and Order Desk are lab services, not Webex products.

diff --git a/docs/lab1_getting_started.md b/docs/lab1_getting_started.md
@@ -18,7 +18,7 @@
 | --- | --- | --- |
 | Collaboration Control Hub | [admin.webex.com](https://admin.webex.com/) | Sign in to your assigned organization; check the entry point and queue. |
 | Flow Designer | [flow-control.produs1.ciscoccservice.com](https://flow-control.produs1.ciscoccservice.com/) | Open the ProdUS1 canvas, or launch it from Control Hub. |
-| AI Agent Studio | [Launch from Control Hub](https://admin.webex.com/) | Open **Contact Center → Customer Experience → AI Agents**. |
+| AI Agent Studio | [studio.aiagent-us1.cisco.com](https://studio.aiagent-us1.cisco.com/) | Open this ProdUS1 lab's Studio, or launch it from **Control Hub → Contact Center → Customer Experience → AI Agents**. |
 | Webex Developer Portal | [developer.webex.com](https://developer.webex.com/) | Register the MCP as an Agentic App. This is not the Flow Designer canvas. |
 | MCP Lab | [mcp-lab.webexdevs.com](https://mcp-lab.webexdevs.com/) | Open **Test tenant details** and inspect Order Desk tools. |
 

diff --git a/docs/troubleshooting.md b/docs/troubleshooting.md
@@ -24,7 +24,7 @@
 
 ## Completion checklist
 
-The guide shows `ServiceDesk` version 5 published as **Latest**. Complete the phone and **Debug** checks in your sandbox before marking the final path done.
+Before finishing, call both final paths and check them in **Debug**. The screenshots show `ServiceDesk` version 5 as **Latest**; your version number may differ.
 
 ### Practice flow and REST
 
